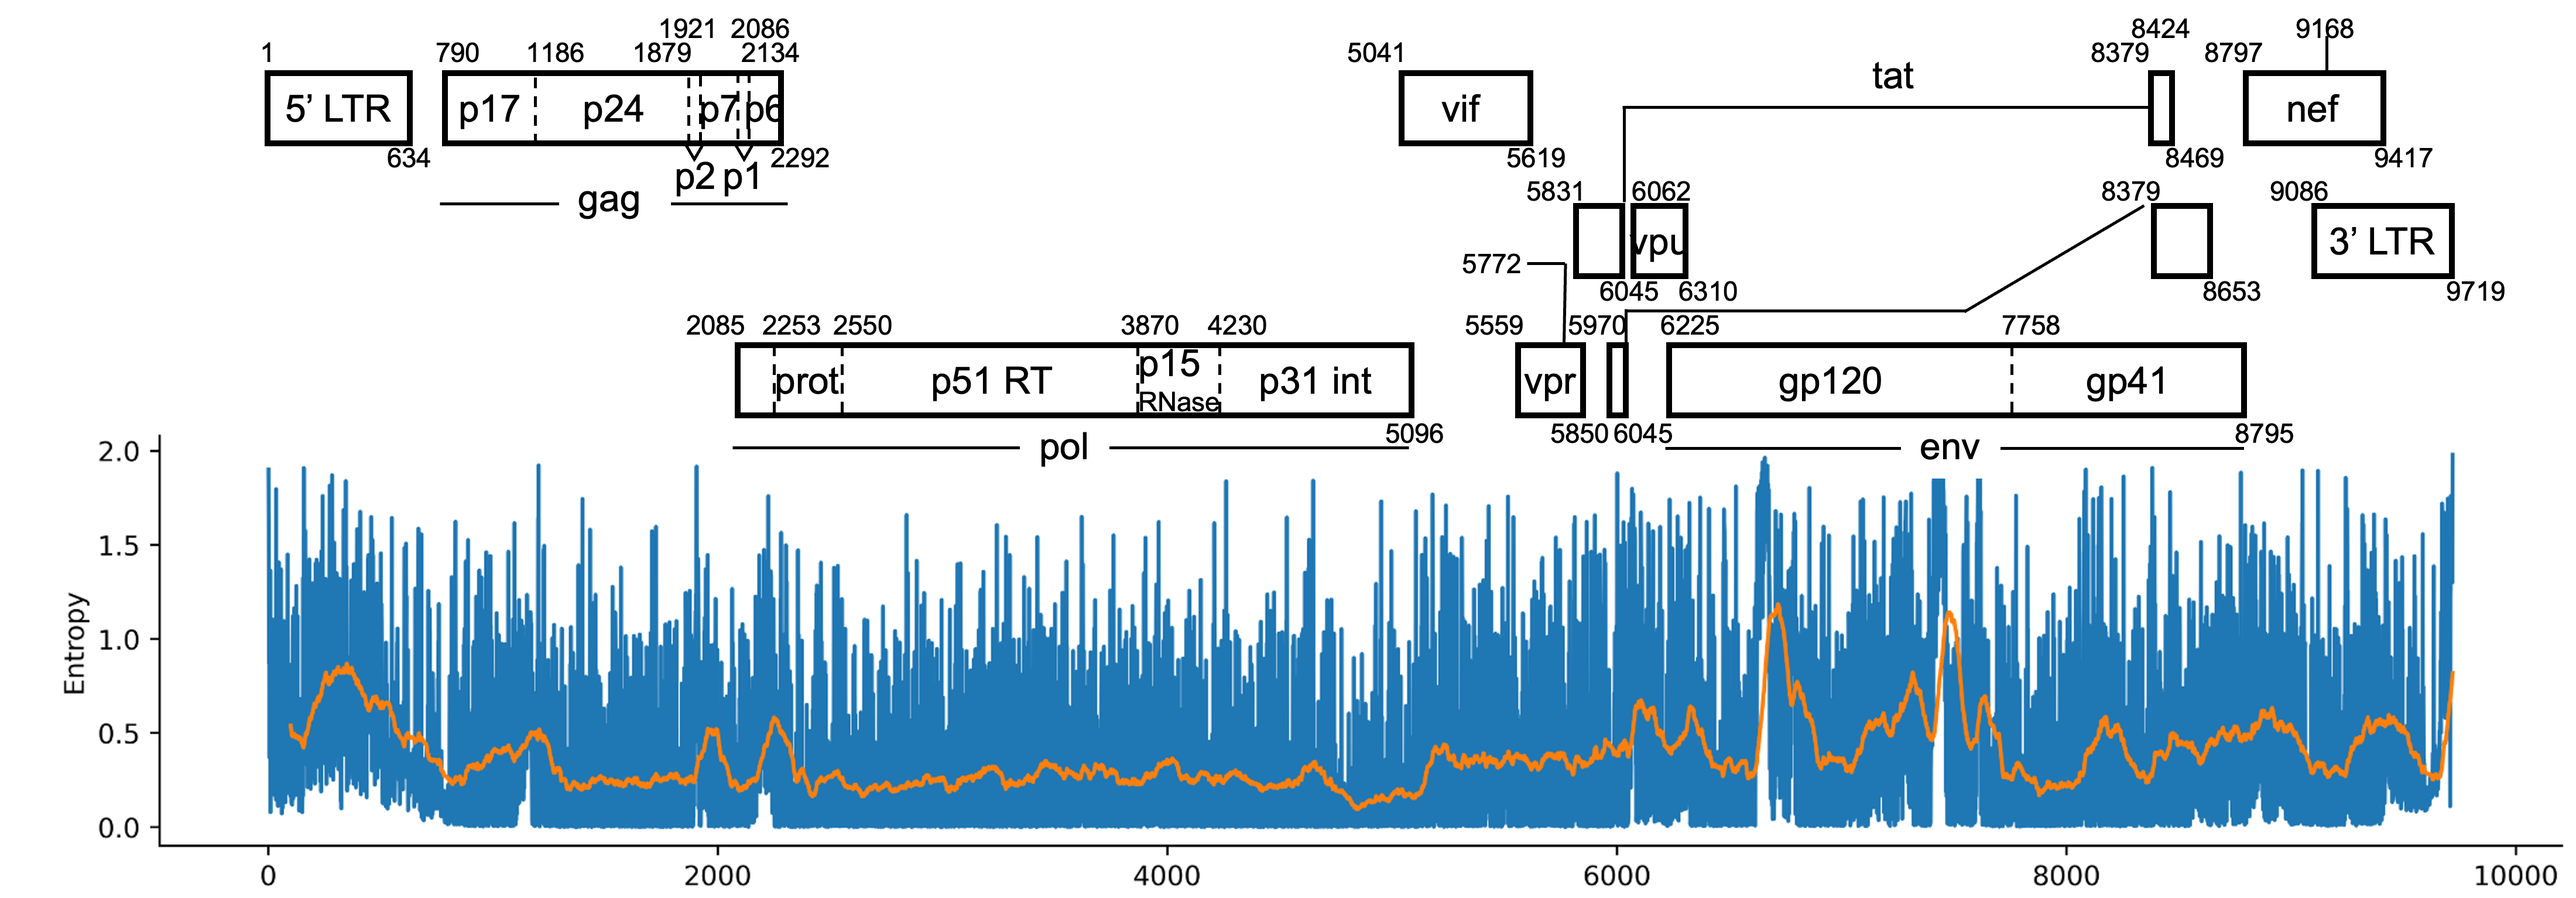
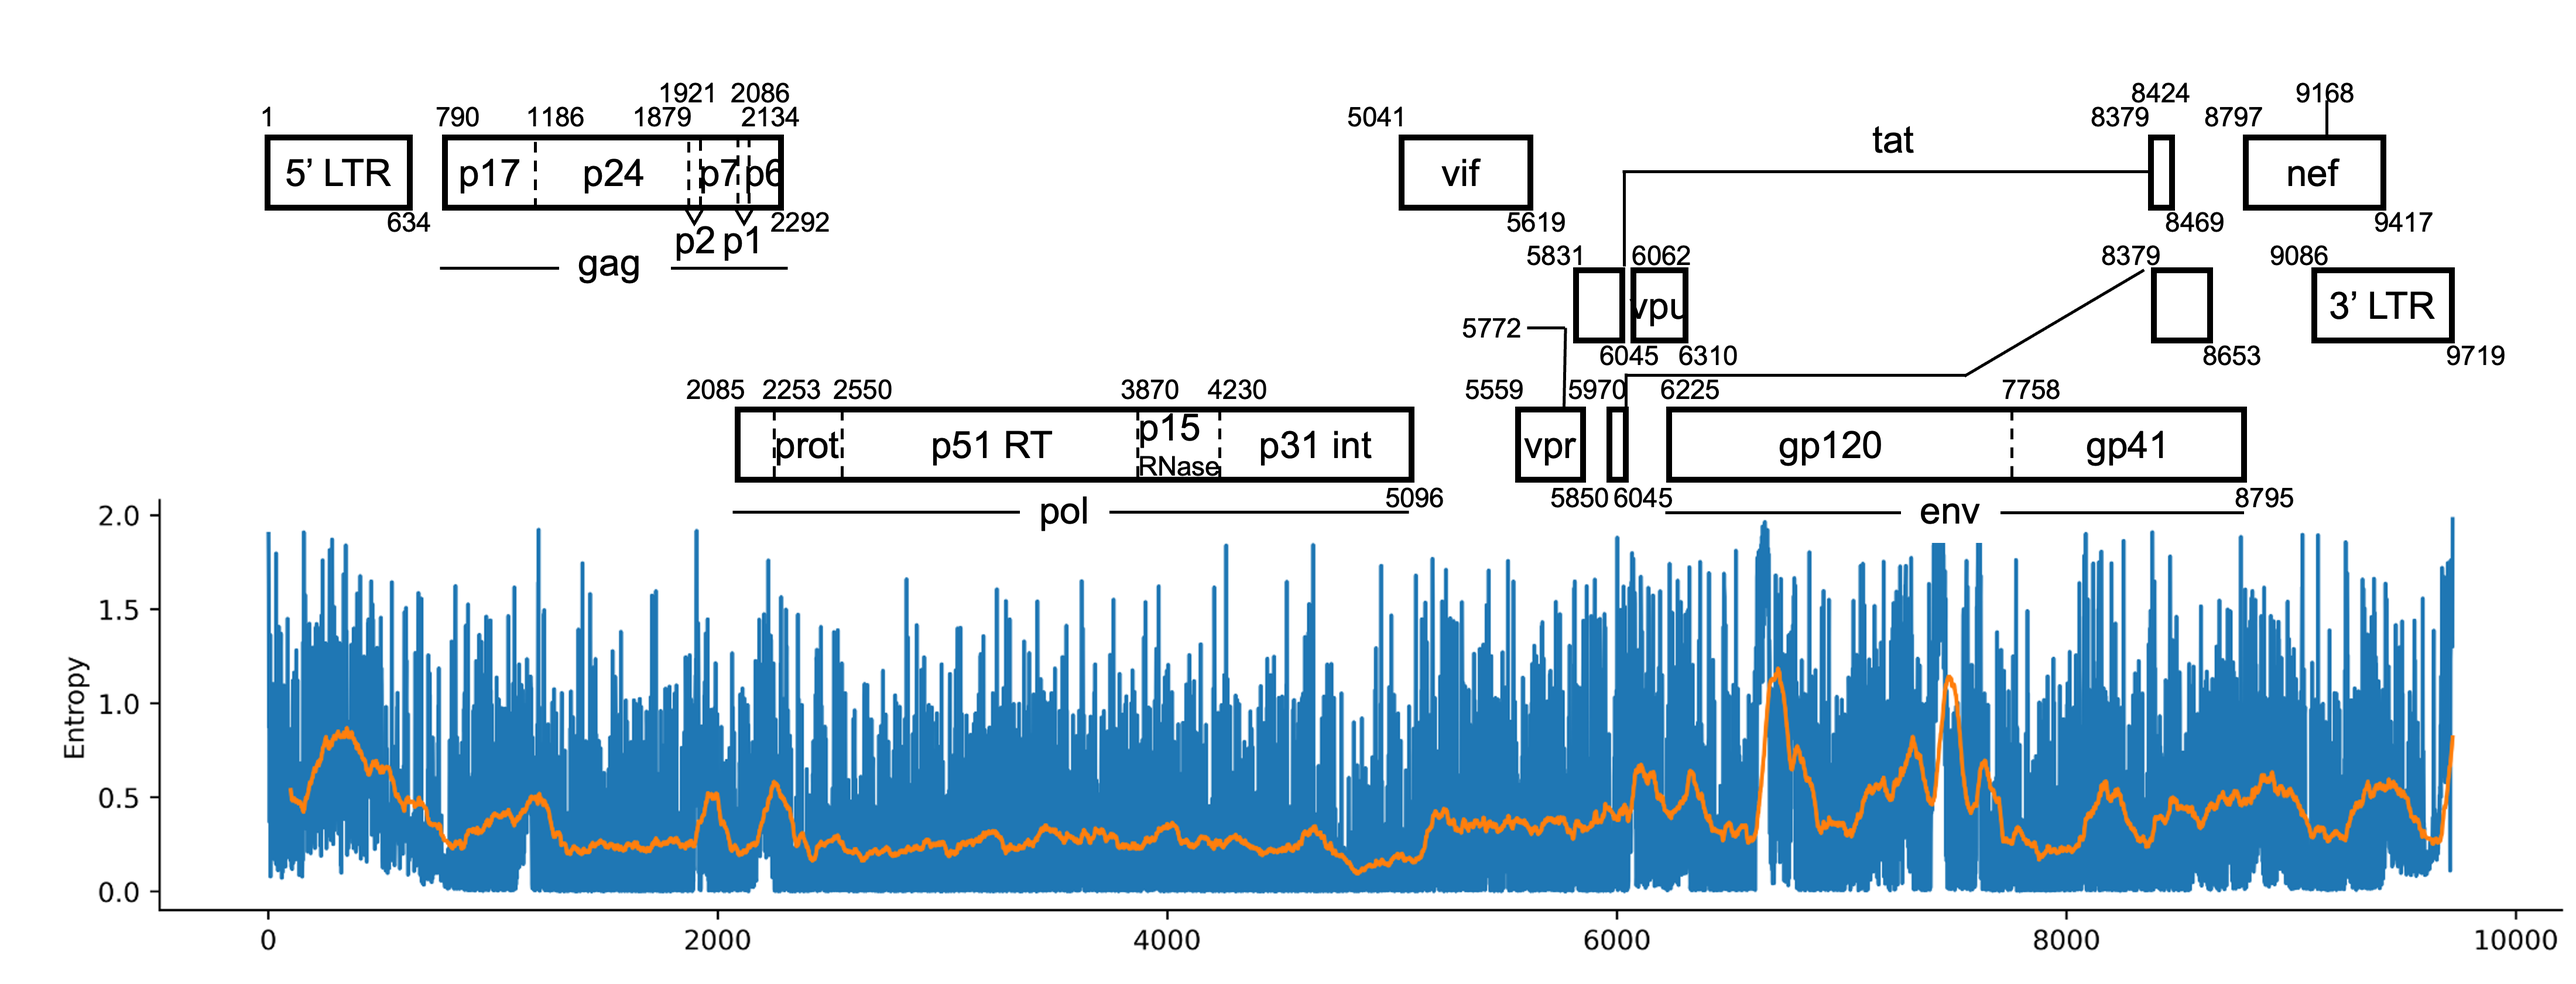
Added footnote + updated image

diff --git a/README.md b/README.md
@@ -1,6 +1,8 @@
 # VariabilityAnalyzer
 
 ![frontcover](https://raw.githubusercontent.com/ArmaanAhmed22/VariabilityAnalyzer/master/Assets/front_cover.png)
+<sup>*figure adapted from LANL's <a href="https://www.hiv.lanl.gov/content/sequence/HIV/MAP/landmark.html">HIV-1 Gene Map</a></sup>
+
 A tool to help visualize the variability of a nucleic acid sequence (genome, gene, etc).
 
 ## Analysis
